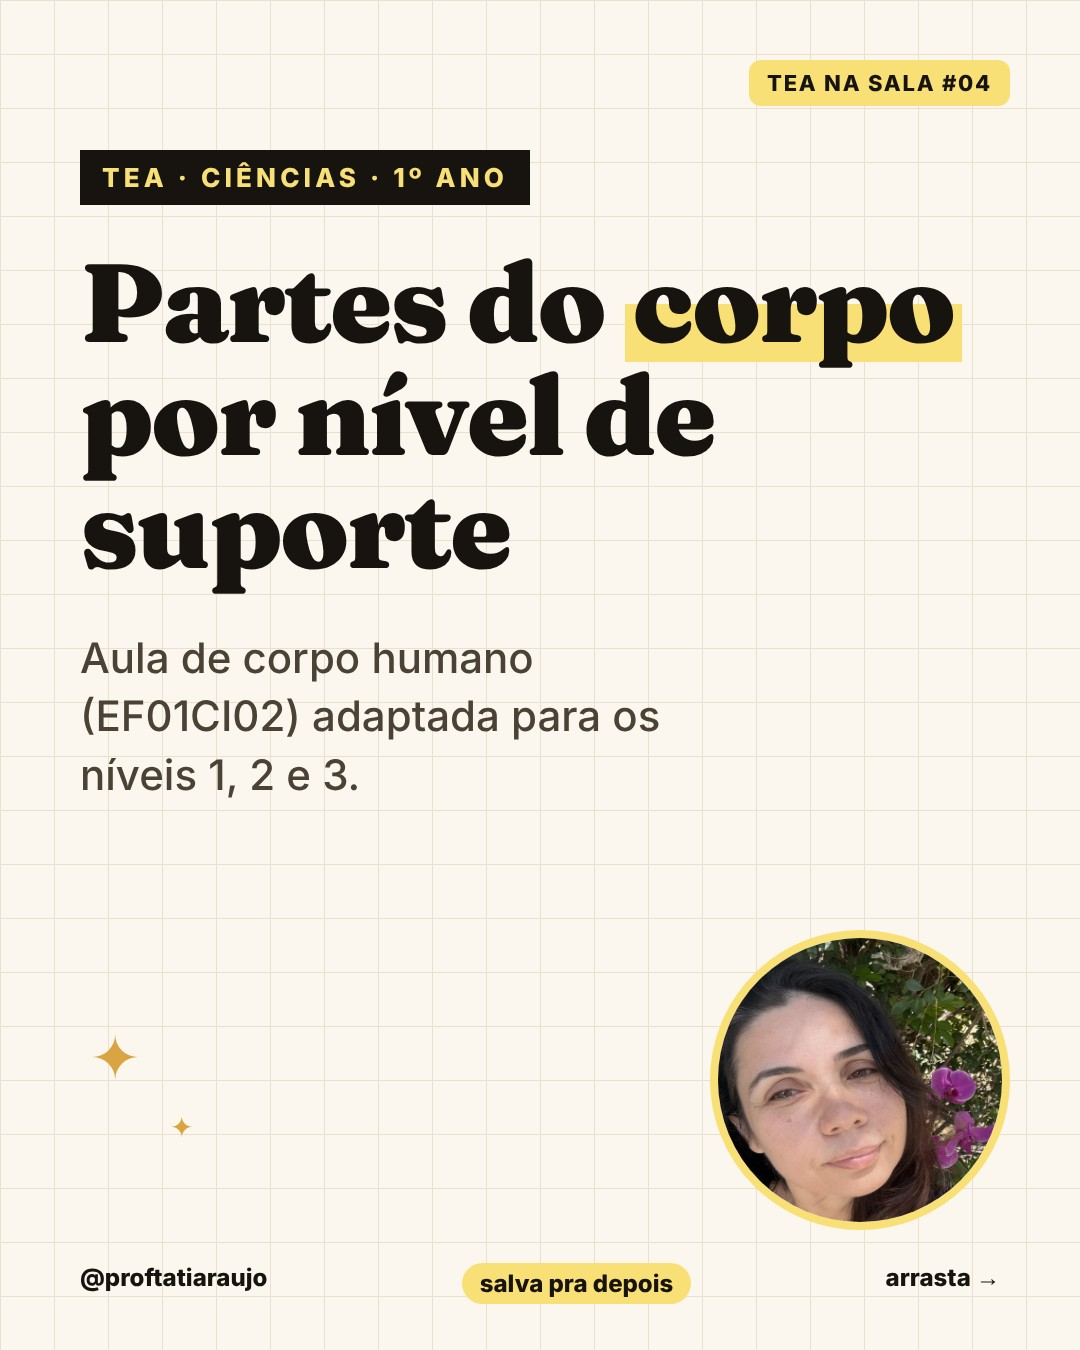
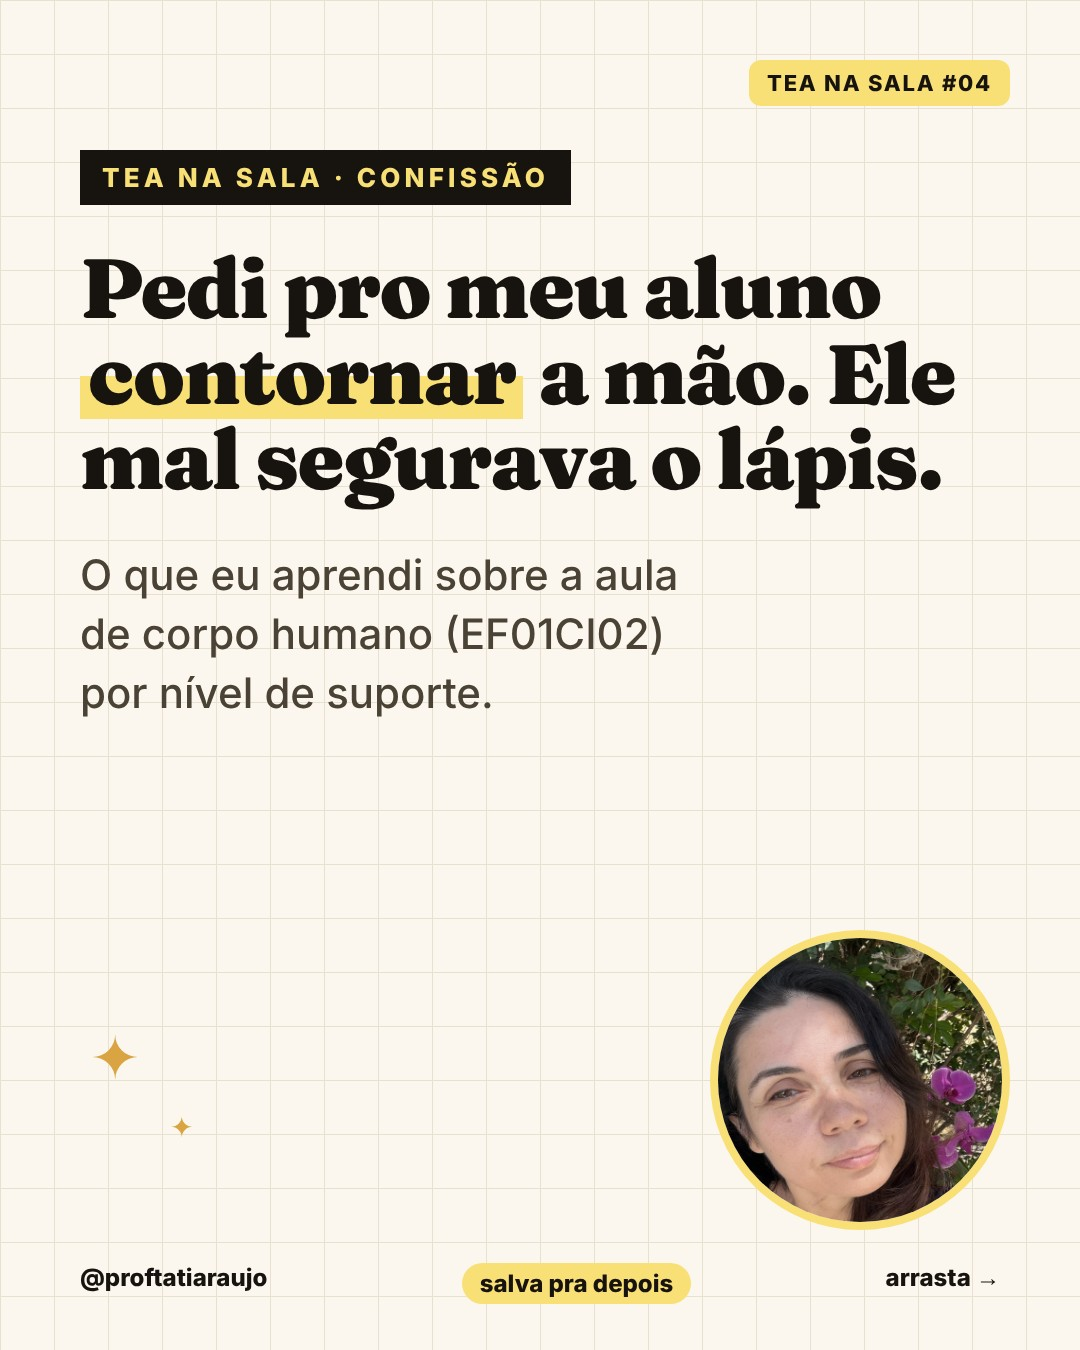
TEA corpo: capa e legenda em formato de confissão; revisor: corte do título
Claude-Session: https://claude.ai/code/session_01BEMiCsd32We6PbGXwDzit2

Changed region(s): [[0.0611, 0.1867, 0.9167, 0.5911], [0.1528, 0.0933, 0.55, 0.1556]]

diff --git a/tools/revisor.py b/tools/revisor.py
@@ -109,7 +109,7 @@ def checar_slide(path, idx, total):
     if idx == 0:
         alturas = [w["h"] for w in corpo]
         if alturas:
-            corte = max(alturas) * 0.5
+            corte = max(alturas) * 0.7
             titulo = [w["t"] for w in sorted(corpo, key=lambda w: (w["y"] // 40, w["x"])) if w["h"] >= corte and w["y"] < 800]
             txt = " ".join(titulo)
             if len(titulo) > CAPA_MAX:
